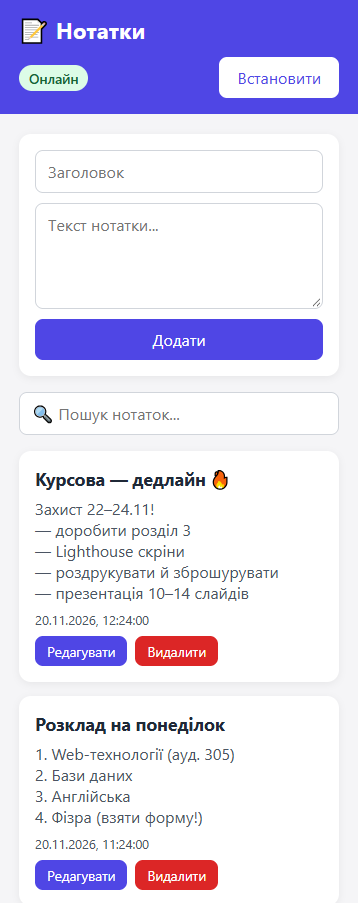
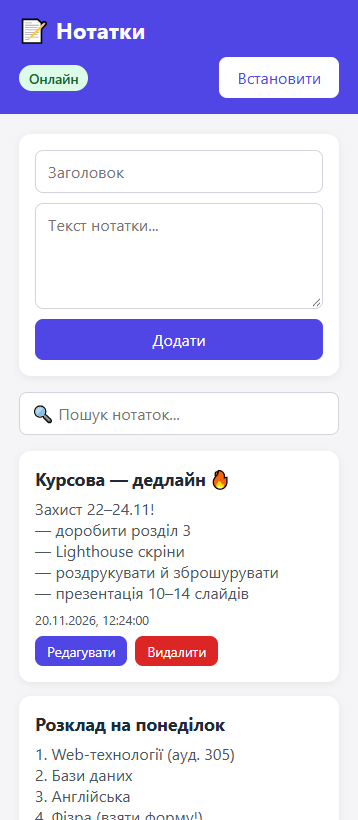
Виправлено пропорції скриншота в маніфесті

diff --git a/sw.js b/sw.js
@@ -1,5 +1,5 @@
 // Service Worker: кешує файли сайту, щоб він працював офлайн
-const CACHE_NAME = 'notes-v4';
+const CACHE_NAME = 'notes-v5';
 
 const FILES_TO_CACHE = [
   './',
